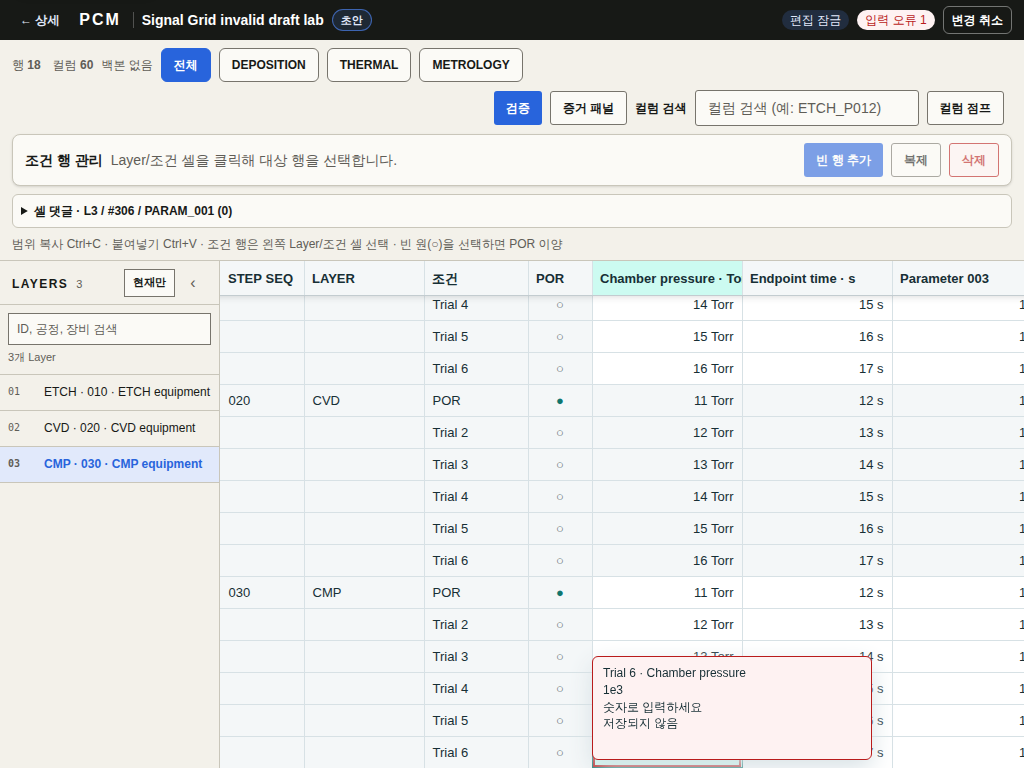
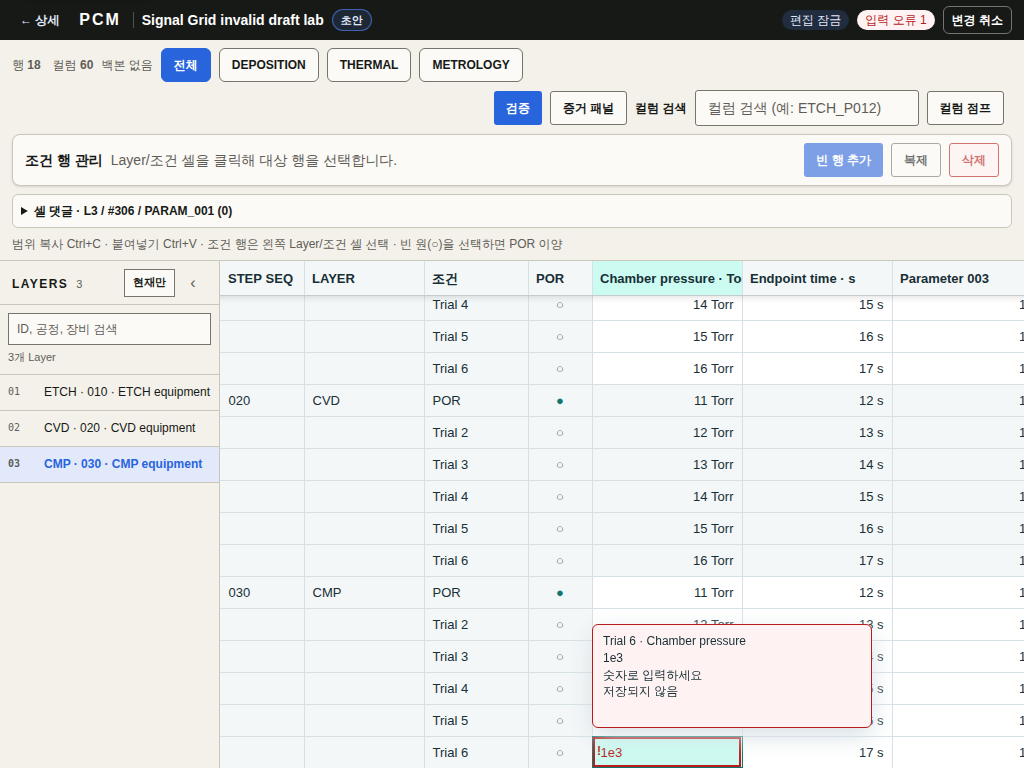
test: verify invalid draft popover separation

Changed region(s): [[0.5625, 0.8125, 0.8438, 1.0]]

diff --git a/docs/superpowers/evidence/condition-cell-invalid-drafts/README.md b/docs/superpowers/evidence/condition-cell-invalid-drafts/README.md
@@ -1,9 +1,9 @@
 # Invalid condition-cell drafts — verification evidence
 
 Captured on 2026-08-14 from `feat/condition-cell-invalid-drafts`. Tasks 1–4 were verified at
-`464272a`; the bounded screenshot repair is the separate product commit `136ea8a`. The fixture,
-result transcript, and PNGs in this evidence set are reproducible without a live backend, package
-installation, or browser download.
+`464272a`; the initial editor repair is `136ea8a`, and review-round product corrections are the
+separate commits `0213539` and `c99b63f`. The fixture, result transcript, and PNGs in this evidence
+set are reproducible without a live backend, package installation, or browser download.
 
 ## Automated gates
 
@@ -33,18 +33,32 @@ passed
 
 The bounded visual pass found that reopening a retained invalid Text projection gave Glide's editor
 the accessibility description instead of the raw draft. The regression was written first and
-failed with `expected undefined to be defined` because no editor override existed. After the repair:
+failed with `expected undefined to be defined` because no editor override existed.
+
+Review then exposed two additional boundaries. The first RED run had 32 existing passes and three
+new failures: printable-key `initialValue="9"` opened as retained raw `abc`, placement used a 0 px
+gap instead of 8 px, and visible-region refresh read bounds immediately. The first GREEN introduced
+the editor authority, fixed popover geometry, and a deferred bounds read. Screenshot comparison then
+proved that one animation frame could still observe Glide's preceding scroll transform. A tightened
+component RED failed because `getBounds` was called on that first frame; `c99b63f` moved the read to
+the second cancellable frame without adding a global listener. Final gates after both corrections:
 
 ```text
 cd frontend
 npm test -- --run src/grid/GlideConditionGrid.test.tsx
-1 file / 33 tests passed
+1 file / 35 tests passed
+
+npm run typecheck
+passed
+
+npm run lint
+passed
 
 npm test -- --run
-99 files / 1,087 tests passed
+99 files / 1,089 tests passed
 
 npm run build
-passed in 8.04s
+passed in 6.46s
 ```
 
 The final build emitted only the pre-existing third-party Glide PURE-comment messages and bundle
@@ -91,7 +105,7 @@ PLAYWRIGHT_CHROMIUM_EXECUTABLE=/home/appuser/.cache/ms-playwright/chromium-1187/
 node docs/superpowers/evidence/condition-cell-invalid-drafts/browser-fixture.cjs
 ```
 
-The final run passed 30/30 recorded assertions and made 12 fixture API calls. Exactly one call used
+The final run passed 37/37 recorded assertions and made 12 fixture API calls. Exactly one call used
 `PATCH /api/projects/7/cells`, with the single correction
 `{ condition_id: 101, parameter_code: "PARAM_001", value: "55" }`.
 
@@ -110,20 +124,24 @@ The single batched scenario covered all required interactions:
 9. The debounced Grid accessibility cell contains `Trial 6`, `Chamber pressure`,
    `숫자로 입력하세요`, and `저장되지 않음`.
 
-There were zero page errors and zero unexpected console errors or warnings. Three Chromium Canvas2D
-readback advice messages are expected fixture instrumentation: the marker assertion reads pixels
-with `getImageData`; application code does not perform those reads.
+There were zero page errors and zero unexpected console errors or warnings. The allowlist accepts
+only a `warning` whose complete text exactly equals Chromium's known Canvas2D readback advice; a
+synthetic same-text `error`, suffixed warning, and substring-only warning were all rejected by the
+fixture assertion. Three exact advice messages are expected fixture instrumentation because marker
+assertions read pixels with `getImageData`; application code does not perform those reads.
 
 ## Viewport measurements
 
-The active-cell bounds are the fixture's fixed-grid/scroller geometry record; popover bounds are
-Playwright DOM bounds. `marker pixels` counts red pixels in the active Canvas cell.
+The active-cell bounds are the fixture's fixed-grid/scroller geometry record; Glide anchor bounds
+come from the production popover state, and popover bounds are Playwright DOM bounds. Every anchor
+matches its active cell within Glide's 1 px rule, and the active-cell/popover intersection area is
+exactly zero. `marker pixels` counts red pixels in the active Canvas cell.
 
-| Viewport | Document client / scroll / overflow | Grid scroller client / scroll / left / top | Active cell bounds | Popover placement and bounds | Inside | Marker pixels |
+| Viewport | Document client / scroll / overflow | Grid scroller client / scroll / left / top | Active / Glide anchor | Popover placement and bounds | Intersection / inside | Marker pixels |
 | --- | --- | --- | --- | --- | --- | ---: |
-| 1024×768 | 1024 / 1024 / 0 px | 804 / 9372 / 0 / 103 px | x592 y736 w150 h32 | above · x592 y656 w280 h104 | yes | 721 |
-| 1440×900 | 1440 / 1440 / 0 px | 1220 / 9372 / 0 / 0 px | x592 y797 w150 h32 | below · x592 y727 w280 h104 | yes | 721 |
-| 1920×1080 | 1920 / 1920 / 0 px | 1700 / 9372 / 0 / 0 px | x592 y797 w150 h32 | below · x592 y830 w280 h104 | yes | 721 |
+| 1024×768 | 1024 / 1024 / 0 px | 804 / 9372 / 0 / 103 px | x592 y736 w150 h32 / x592 y736 w151 h33 | above · x592 y624 w280 h104 | 0 px² / yes | 721 |
+| 1440×900 | 1440 / 1440 / 0 px | 1220 / 9372 / 0 / 0 px | x592 y797 w150 h32 / x592 y797 w151 h33 | above · x592 y685 w280 h104 | 0 px² / yes | 721 |
+| 1920×1080 | 1920 / 1920 / 0 px | 1700 / 9372 / 0 / 0 px | x592 y797 w150 h32 / x592 y797 w151 h33 | below · x592 y838 w280 h104 | 0 px² / yes | 721 |
 
 At every width, document horizontal overflow is zero, the Grid scroller owns the 9,372 px virtual
 sheet width, the same invalid coordinate remains selected, and the popover stays within the viewport.
@@ -134,20 +152,21 @@ border `rgb(185, 28, 28)`. Their text/surface contrast is 12.85:1 and border/sur
 ## PNG evidence and visual review
 
 - `.impeccable/review/condition-cell-invalid-draft-1024.png` — SHA-256
[2 lines of base64/hex data omitted]
 - `.impeccable/review/condition-cell-invalid-draft-1440.png` — SHA-256
[2 lines of base64/hex data omitted]
 - `.impeccable/review/condition-cell-invalid-draft-1920.png` — SHA-256
[2 lines of base64/hex data omitted]
 
-All three PNGs were inspected together at original resolution, followed by one bounded repair and
-one final confirmation. The Drafting Table remains a flat 1 px-rule workspace with stable 32 px
-Grid rows. The invalid raw value, marker, selected-cell focus, and Korean problem/repair copy remain
-legible without document overflow. The first-pass full accessibility-description editor overlay is
-absent in the confirmed images; reopening the editor now starts from raw `1e3`.
+All three regenerated PNGs were inspected together at original resolution after the review-round
+correction. The Drafting Table remains a flat 1 px-rule workspace with stable 32 px Grid rows. The
+invalid raw value, marker, selected-cell focus, and Korean problem/repair copy remain legible without
+document overflow. At 1024 and 1440 the popover ends 8 px above the active cell; at 1920 it begins
+9 px below the fixture's 32 px cell (8 px below Glide's inclusive 33 px bound). The first-pass full
+accessibility-description editor overlay is absent; reopening the editor starts from raw `1e3`.
 
 ## Scope hygiene
 
-The product repair changes only `GlideConditionGrid.tsx` and its regression test. The evidence
+The product repairs change only `GlideConditionGrid.tsx` and its regression test. The evidence
 commit contains only this directory and the three requested PNGs. `.superpowers/sdd/**` artifacts
 remain untracked by design.
